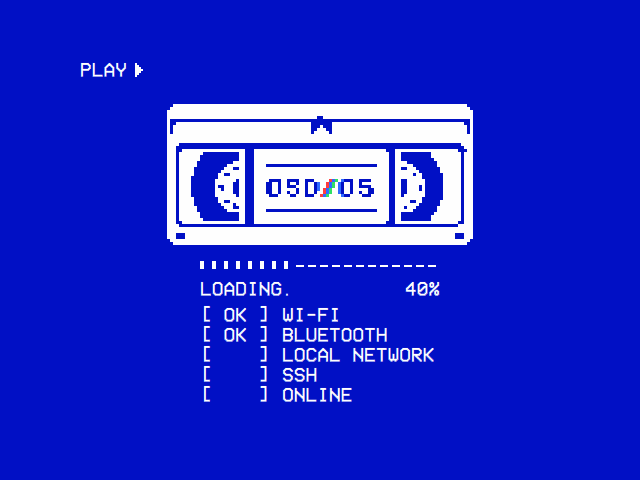
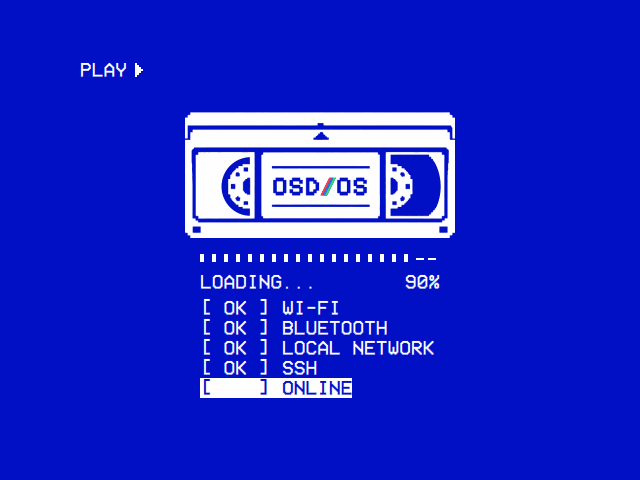
feat: the boot screen's cassette is the owner's drawing itself
The owner asked why the cassette could not look like their drawing, and
whether the screen's resolution was the limit. It was not: the drawing
had been sampled onto a grid of six of its pixels a cell, which lost
what is finer than that (the letters, the hubs' holes, the curves of the
tape), and redrawn on that grid.

The cassette is now the drawing itself: assets/images/cassette.png, the
drawing's ink as a mask (white, its alpha how much of each pixel is ink,
its own edges kept), drawn through OsdIconProvider in the theme's text
colour at the size the boot screen gives it. That size is the
drawing's own share of the screen (612 × 284 of 1448 × 1086): 270 × 126
at 640×480, 304 × 126 at 720×480. Over it, in the drawing's pixels, a
Canvas draws the slash on the label in its three colours, and in each
window the shell over the tape a reel no longer holds: the ring between
the full reel and the disc its tape still fills, clipped to the window
and to a disc short of its frame, so the left pack winds off onto the
right one as the progress says, around the drawing's own hubs.

OsdIconProvider stretches a drawing to a width asked for as well as a
height, so on a screen whose pixels are not square (720×480 on a 4:3
tube) the cassette keeps its shape on the glass. The callers that ask
for a height alone are unchanged.

Claude-Session: https://claude.ai/code/session_01BPj7F5bUAW2FbHbUrDiQbs

Changed region(s): [[0.25, 0.2188, 0.75, 0.8438]]

diff --git a/views/Components/VhsCassette.qml b/views/Components/VhsCassette.qml
@@ -1,223 +1,114 @@
 import QtQuick
 
-// Pixel-art VHS cassette, the owner's drawing (the boot screen's), in two
-// colours: the shell is solid `ink`, and its cut-outs are left clear so the
-// background shows through. The cut-outs are the line under the top edge with
-// its mark, the label with OSD/OS between two rules (the slash in its three
-// colours), the window either side of it with the tape wound on a reel around
-// an ink hub, and the two feet. As `progress` goes from 0 to 1 the tape winds
-// off the left (supply) reel onto the right (take-up) one, so the left pack
-// shrinks while the right one grows.
+// The VHS cassette on the boot screen, the owner's drawing itself
+// (assets/images/cassette.png: white where the drawing is ink, with its own
+// edges) in the theme's text colour, the slash on its label in its three
+// colours. As `progress` goes from 0 to 1 the tape winds off the left
+// (supply) reel onto the right (take-up) one: each window shows its reel's
+// tape as a disc of the radius the progress gives, around the drawing's own
+// hub, the shell showing where the tape has gone.
 //
-// The art is a grid of cells (`art`, a character a cell: '#' ink, '.' clear,
-// 'r', 'b' and 'g' the slash's colours), each drawn as a pixelSize × pixelSize
-// block, so the picture stays crisp at any integer scale (and a single-pixel
-// line never lands on one interlaced CRT field). The shell is painted once;
-// the two reel windows are repainted as the tape moves.
+// The host sizes it (width and height), and the drawing is stretched to that,
+// so on a screen whose pixels are not square (720×480 on a 4:3 tube) it
+// keeps its shape on the glass.
 Item {
     id: cassette
 
-    // Screen pixels per art pixel. The host derives it from root.sh.
-    property int pixelSize: 3
     // 0 = all of the tape on the left reel, 1 = all of it on the right.
     property real progress: 0
+    // The one colour drawn; the host sets it to the theme's text colour.
+    property color ink: "#ffffff"
 
-    // The one colour drawn; everything else is the background. The host sets
-    // it to the theme's text colour.
-    property string ink: "#ffffff"
-    readonly property var slashColours: ({ "r": "#ff3d3d", "b": "#2f6bff", "g": "#2fe063" })
+    // The drawing's frame, and what the view needs of it, in its pixels.
+    readonly property real artWidth: 612
+    readonly property real artHeight: 284
+    readonly property real reelY: 168
+    readonly property real leftReelX: 149
+    readonly property real rightReelX: 463.5
+    // The tape's radius: full as drawn, and never down to the hub (51.5).
+    readonly property real fullRadius: 121
+    readonly property real emptyRadius: 57
+    // Each window's tape, a little beyond it where the drawing is shell:
+    // [x0, y0, x1, y1]. With a disc a little larger than the full reel,
+    // it bounds what a reel's lost tape is covered in, short of the frame.
+    readonly property var leftPack: [28, 94, 149, 236]
+    readonly property var rightPack: [463, 94, 584, 236]
+    readonly property real packRadius: fullRadius + 2.5
+    // The slash on the label: three stripes `stripe` wide, from `slashX` on
+    // its top row, a pixel to the left for every two rows down.
+    readonly property real slashTop: 148
+    readonly property real slashBottom: 188
+    readonly property real slashX: 327
+    readonly property real stripe: 5
+    readonly property var slashColours: ["#ff3d3d", "#2f6bff", "#2fe063"]
 
-    // The drawing, 102 × 47 cells (the owner's osdos-vhs-acilis.png, sampled
-    // a cell per 6 of its pixels), the reels full as drawn: the windows show
-    // their tape wound off as the progress says.
-    readonly property var art: [
-        "..##################################################################################################..",
-        ".####################################################################################################.",
-        "######################################################################################################",
-        "######################################################################################################",
-        "##################################################..##################################################",
-        "#....................................................................................................#",
-        "#..#############################################.......############################################..#",
-        "#.##############################################...#...#############################################.#",
-        "#.##############################################..###..#############################################.#",
-        "#.##############################################.#####.#############################################.#",
-        "######################################################################################################",
-        "######################################################################################################",
-        "######################################################################################################",
-        "####..............................................................................................####",
-        "###................................................................................................###",
-        "###..#####################...############################################...#####################...##",
-        "###.######..............##...#############################################..##..............######.###",
-        "###.#####...............##...#############################################..##...............#####.###",
-        "###.####................##...#############################################..##................####.###",
-        "###.###...............####...#############################################..####...............###.###",
-        "###.###.............######...####.....................................####..######.............###.###",
-        "###.##.............###..##...#############################################..##..###.............##.###",
-        "###.##............########...#############################################..########............##.###",
-        "###.#............##..#####...#############################################..######.##............#.###",
-        "###.#............#########...#############################################..#########............#.###",
-        "###.#...........#######.##...#####....##....##...#####rbg#b...##....######..##..######...........#.###",
-        "###.#...........######..##...####..##.##.##.##.##.b##rbg#b.##.##.#########..##..######...........#.###",
-        "###.#...........#..###..##...####..##.##...###.##.b##rbg#b.##.##....######..##..####.#...........#.###",
-        "###.#...........##.###..##...####..##.#####.##.##.b#rbg##b.##.#####..#####..##..####.#...........#.###",
-        "###.#...........######..##...####..##.##.##.##.##.##rbg##b.##.##.##..#####..##..######...........#.###",
-        "###.#...........#######.##...#####...####..###...##rbg####b..####...######..##.#######...........#.###",
-        "###.#............#########...#############################################..#########............#.###",
-        "###.##...........##..#####...#############################################..#####..##...........##.###",
-        "###.##............####.###...#############################################..########............##.###",
-        "###.###............###..##...#############################################..###.###............###.###",
-        "###.###.............######...####.....................................####..######.............###.###",
-        "###.####................##...#############################################..##................####.###",
-        "###.#####...............##...#############################################..##...............#####.###",
-        "###.######..............##...#############################################..##..............######.###",
-        "###..#####################...############################################...#####################..###",
-        "####.............................................................................................#####",
-        "######################################################################################################",
-        "######################################################################################################",
-        "###...##########################################################################################...###",
-        "###...##########################################################################################...###",
-        ".####################################################################################################.",
-        "..##################################################################################################.."
-    ]
-    readonly property int gridWidth: 102
-    readonly property int gridHeight: 47
+    implicitWidth: artWidth
+    implicitHeight: artHeight
 
-    width: gridWidth * pixelSize
-    height: gridHeight * pixelSize
-
-    // --- Geometry (grid cells, inclusive bounds) ---
-    // The windows' interiors, where the tape shows.
-    readonly property int windowY0: 16
-    readonly property int windowY1: 38
-    readonly property int leftWindowX0: 5
-    readonly property int rightWindowX0: 77
-    readonly property int windowWidth: 20
-    readonly property int windowHeight: windowY1 - windowY0 + 1
-    // Reel centres sit on the frame between each window and the label, so
-    // the frame and the label hide the inner half of each reel, as in the
-    // drawing, whose hubs (with their holes) the art keeps.
-    readonly property real leftReelX: leftWindowX0 + windowWidth + 0.5
-    readonly property real rightReelX: rightWindowX0 - 0.5
-    readonly property real reelY: (windowY0 + windowY1 + 1) / 2
-    // The tape's radius: full as the drawing has it, and never bare hub.
-    // Kept off half-integers, which leave a one-cell nub on the circle's edge.
-    readonly property real emptyRadius: 11.3
-    readonly property real fullRadius: 20.4
-
-    // Tape radius on each reel for the current progress. The tape's area is
-    // conserved, so the radii follow the square root, not a straight line.
+    // Tape radius on a reel holding `share` of the tape. The tape's area is
+    // conserved, so the radius follows the square root, not a straight line.
     function reelRadius(share) {
         var e = emptyRadius * emptyRadius
         var f = fullRadius * fullRadius
         return Math.sqrt(e + Math.max(0, Math.min(1, share)) * (f - e))
     }
-    readonly property real leftRadius:  reelRadius(1 - progress)
+    readonly property real leftRadius: reelRadius(1 - progress)
     readonly property real rightRadius: reelRadius(progress)
 
-    // Paints `w` × `h` cells through colorAt(x, y), merging horizontal runs of
-    // one colour into a single fillRect; "" leaves a cell transparent.
-    function paintCells(ctx, w, h, colorAt) {
-        var s = pixelSize
-        for (var y = 0; y < h; ++y) {
-            var start = 0
-            var current = colorAt(0, y)
-            for (var x = 1; x <= w; ++x) {
-                var c = x < w ? colorAt(x, y) : null
-                if (c === current)
-                    continue
-                if (current) {
-                    ctx.fillStyle = current
-                    ctx.fillRect(start * s, y * s, (x - start) * s, s)
-                }
-                start = x
-                current = c
+    // The shell over the tape a reel no longer holds: within its window, the
+    // ring between the full reel and the disc its tape still fills.
+    function coverTape(ctx, pack, cx, r) {
+        if (r >= fullRadius)
+            return
+        ctx.save()
+        ctx.beginPath()
+        ctx.rect(pack[0], pack[1], pack[2] - pack[0], pack[3] - pack[1])
+        ctx.clip()
+        ctx.beginPath()
+        ctx.arc(cx, reelY, packRadius, 0, 2 * Math.PI, false)
+        ctx.moveTo(cx + r, reelY)
+        ctx.arc(cx, reelY, r, 0, 2 * Math.PI, true)
+        ctx.fill()
+        ctx.restore()
+    }
+
+    Image {
+        anchors.fill: parent
+        sourceSize.width: width
+        sourceSize.height: height
+        source: width > 0 && height > 0
+                ? "image://osdicon/" + cassette.ink.toString().replace("#", "")
+                  + "/" + Qt.resolvedUrl("../../assets/images/cassette.png")
+                : ""
+    }
+
+    // The tape and the slash, over the drawing, in its own pixels.
+    Canvas {
+        id: overlay
+        anchors.fill: parent
+        onPaint: {
+            var ctx = getContext("2d")
+            ctx.reset()
+            ctx.scale(width / cassette.artWidth, height / cassette.artHeight)
+            ctx.fillRule = Qt.OddEvenFill
+            ctx.fillStyle = cassette.ink
+            cassette.coverTape(ctx, cassette.leftPack, cassette.leftReelX, cassette.leftRadius)
+            cassette.coverTape(ctx, cassette.rightPack, cassette.rightReelX, cassette.rightRadius)
+            var drop = (cassette.slashBottom - cassette.slashTop) / 2
+            for (var i = 0; i < 3; ++i) {
+                var x = cassette.slashX + i * cassette.stripe
+                ctx.fillStyle = cassette.slashColours[i]
+                ctx.beginPath()
+                ctx.moveTo(x, cassette.slashTop)
+                ctx.lineTo(x + cassette.stripe, cassette.slashTop)
+                ctx.lineTo(x + cassette.stripe - drop, cassette.slashBottom)
+                ctx.lineTo(x - drop, cassette.slashBottom)
+                ctx.closePath()
+                ctx.fill()
             }
         }
     }
-
-    function inWindow(x, y) {
-        return y >= windowY0 && y <= windowY1
-            && ((x >= leftWindowX0 && x < leftWindowX0 + windowWidth)
-                || (x >= rightWindowX0 && x < rightWindowX0 + windowWidth))
-    }
-
-    function shellColor(x, y) {
-        // The reel windows, left to their own layer.
-        if (inWindow(x, y))
-            return ""
-        var c = art[y].charAt(x)
-        if (c === "#")
-            return ink
-        return slashColours[c] || ""
-    }
-
-    // Colours the reel window that starts at column x0, for a reel centred on
-    // column cx: the drawing's own cells (the hub and its holes, the shell at
-    // the corners), but the tape only out to the reel's radius; beyond it the
-    // shell shows, as it does behind an empty reel.
-    function reelPainter(x0, cx, tapeRadius) {
-        return function(lx, ly) {
-            var x = x0 + lx, y = windowY0 + ly
-            if (art[y].charAt(x) === "#")
-                return ink
-            var dx = x + 0.5 - cx, dy = y + 0.5 - reelY
-            return dx * dx + dy * dy > tapeRadius * tapeRadius ? ink : ""
-        }
-    }
-
-    Canvas {
-        id: shellCanvas
-        anchors.fill: parent
-        antialiasing: false
-        smooth: false
-        onPaint: {
-            var ctx = getContext("2d")
-            ctx.reset()
-            cassette.paintCells(ctx, cassette.gridWidth, cassette.gridHeight, cassette.shellColor)
-        }
-    }
-
-    Canvas {
-        id: leftWindow
-        x: cassette.leftWindowX0 * cassette.pixelSize
-        y: cassette.windowY0 * cassette.pixelSize
-        width: cassette.windowWidth * cassette.pixelSize
-        height: cassette.windowHeight * cassette.pixelSize
-        antialiasing: false
-        smooth: false
-        onPaint: {
-            var ctx = getContext("2d")
-            ctx.reset()
-            cassette.paintCells(ctx, cassette.windowWidth, cassette.windowHeight,
-                                cassette.reelPainter(cassette.leftWindowX0, cassette.leftReelX,
-                                                     cassette.leftRadius))
-        }
-    }
-
-    Canvas {
-        id: rightWindow
-        x: cassette.rightWindowX0 * cassette.pixelSize
-        y: cassette.windowY0 * cassette.pixelSize
-        width: cassette.windowWidth * cassette.pixelSize
-        height: cassette.windowHeight * cassette.pixelSize
-        antialiasing: false
-        smooth: false
-        onPaint: {
-            var ctx = getContext("2d")
-            ctx.reset()
-            cassette.paintCells(ctx, cassette.windowWidth, cassette.windowHeight,
-                                cassette.reelPainter(cassette.rightWindowX0, cassette.rightReelX,
-                                                     cassette.rightRadius))
-        }
-    }
-
-    function repaintAll() {
-        shellCanvas.requestPaint()
-        leftWindow.requestPaint()
-        rightWindow.requestPaint()
-    }
-    onPixelSizeChanged: repaintAll()
-    onInkChanged: repaintAll()
-    onLeftRadiusChanged: leftWindow.requestPaint()
-    onRightRadiusChanged: rightWindow.requestPaint()
+    onLeftRadiusChanged: overlay.requestPaint()
+    onRightRadiusChanged: overlay.requestPaint()
+    onInkChanged: overlay.requestPaint()
 }

diff --git a/views/BootScreen.qml b/views/BootScreen.qml
@@ -113,9 +113,10 @@ FocusScope {
 
     VhsCassette {
         id: cassette
-        // Half as large again as the on-screen display's pixel grid, the size
-        // the owner's drawing has it: 306×141 at 640×480.
-        pixelSize: root.px + Math.floor(root.px / 2)
+        // As large as on the owner's drawing of this screen, where it is
+        // 612 × 284 of 1448 × 1086: 270 × 126 at 640×480, 304 × 126 at 720×480.
+        width: Math.round(root.sw * 612 / 1448)
+        height: Math.round(root.sh * 284 / 1086)
         ink: root.primaryColor
         x: Math.round((root.sw - width) / 2)
         y: bootRoot.blockY

diff --git a/src/util/OsdIconProvider.cpp b/src/util/OsdIconProvider.cpp
@@ -52,14 +52,17 @@ QImage OsdIconProvider::requestImage(const QString &id, QSize *size, const QSize
         return {};
 
     // Drawn again from the original at the scale that makes the drawing itself
-    // the height asked for, then cut to it.
+    // the height asked for, then cut to it. A width asked for as well
+    // stretches it to that width: a screen whose pixels are not square
+    // (720×480 on a 4:3 tube) keeps the drawing's shape on the glass.
     const double scale = double(height) / (bottom - top);
-    const QImage full = render(path, QSize(qMax(1, qRound(probe.width() * scale)),
+    const double scaleX = requestedSize.width() > 0 ? double(requestedSize.width()) / (right - left) : scale;
+    const QImage full = render(path, QSize(qMax(1, qRound(probe.width() * scaleX)),
                                            qMax(1, qRound(probe.height() * scale))));
-    const int x0 = int(std::floor(left * scale));
+    const int x0 = int(std::floor(left * scaleX));
     const int y0 = int(std::floor(top * scale));
     QImage out = full.copy(x0, y0,
-                           qMax(1, int(std::ceil(right * scale)) - x0),
+                           qMax(1, int(std::ceil(right * scaleX)) - x0),
                            qMax(1, int(std::ceil(bottom * scale)) - y0));
 
     // In the colour, with the drawing's own edges.

diff --git a/os/README.md b/os/README.md
@@ -10,7 +10,7 @@ Compared with flashing Raspberry Pi OS Lite and running `scripts/install.sh` ([I
 
 - **The app comes first.** `240mp.service` starts as soon as the display driver is up (after `basic.target`), not after every other service (`multi-user.target`).
 - **The rest waits for it.** Wi-Fi (NetworkManager), Bluetooth, mDNS (`avahi-daemon`) and, if enabled, SSH hold back until the app has drawn its first frame. Then they start one after another, in that order.
-- **The boot screen.** While those services start, the app shows a pixel-art VHS cassette, the owner's drawing with OSD/OS on its label (`views/Components/VhsCassette.qml` holds it as a grid of cells): its reels turn, and the tape winds off the left reel onto the right one as the progress bar fills, plus a line per service (`[ OK ] WI-FI`, …). It ends with a check that the network is actually online. The startup module opens once it is done, so modules that need the network find it ready. Keys do nothing while it is up.
+- **The boot screen.** While those services start, the app shows a pixel-art VHS cassette, the owner's drawing with OSD/OS on its label (`assets/images/cassette.png`, drawn by `views/Components/VhsCassette.qml`): its reels turn, and the tape winds off the left reel onto the right one as the progress bar fills, plus a line per service (`[ OK ] WI-FI`, …). It ends with a check that the network is actually online. The startup module opens once it is done, so modules that need the network find it ready. Keys do nothing while it is up.
 - **A quiet boot.** There is no rainbow splash, no one-second firmware delay (`boot_delay=0`), no kernel text, logo or cursor on `tty1`, and no login prompt on `tty1`.
 - **Less running.** The image has:
   - no apt, man-db, e2scrub or dpkg-backup timers (they wake the SD card at random times, mid-movie included);

diff --git a/ARCHITECTURE.md b/ARCHITECTURE.md
@@ -654,7 +654,7 @@ Shared QML components live in `views/Components/` (registered via `qmldir`, impo
 | `title` | `string` | Module name — use `moduleRoot.moduleName` |
 | `subtitle` | `string` | Optional context label (hidden when empty) |
 
-The module's logo stands at its left end, in the theme's text colour, a fifth taller than the bar so it stands out of it above and below, an art pixel clear of it on each side. Then comes a solid bar in the same colour with the title and subtitle in the background colour, the way a deck's on-screen menu starts. The logo is drawn by `OsdIconProvider` (`src/util/`, `image://osdicon/<rrggbb>/<url>`): trimmed to its shape and drawn from the original at the bar's size (a vector is rendered at that height, not scaled from a bitmap), in one colour with its own smooth edges. It does not use a shader effect, which the software scene graph draws as nothing.
+The module's logo stands at its left end, in the theme's text colour, a fifth taller than the bar so it stands out of it above and below, an art pixel clear of it on each side. Then comes a solid bar in the same colour with the title and subtitle in the background colour, the way a deck's on-screen menu starts. The logo is drawn by `OsdIconProvider` (`src/util/`, `image://osdicon/<rrggbb>/<url>`): trimmed to its shape and drawn from the original at the bar's size (a vector is rendered at that height, not scaled from a bitmap), in one colour with its own smooth edges. A width asked for as well as a height (`sourceSize` both) stretches the drawing to it, for a picture that must keep its shape on a screen whose pixels are not square (the boot screen's cassette at 720×480 on a 4:3 tube). It does not use a shader effect, which the software scene graph draws as nothing.
 
 ### PromptScreen (`views/Components/PromptScreen.qml`)
 
